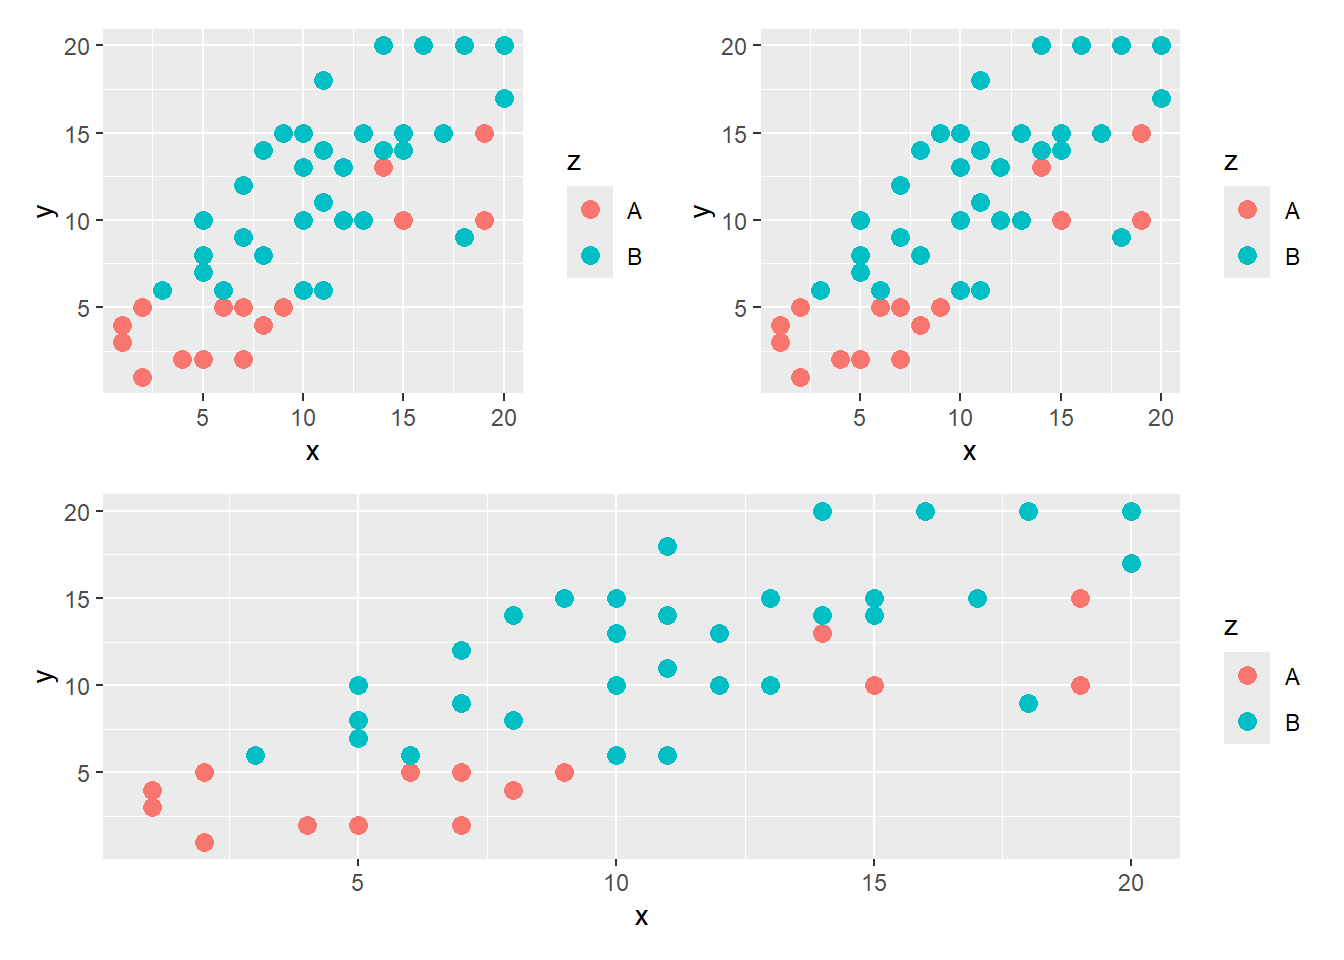
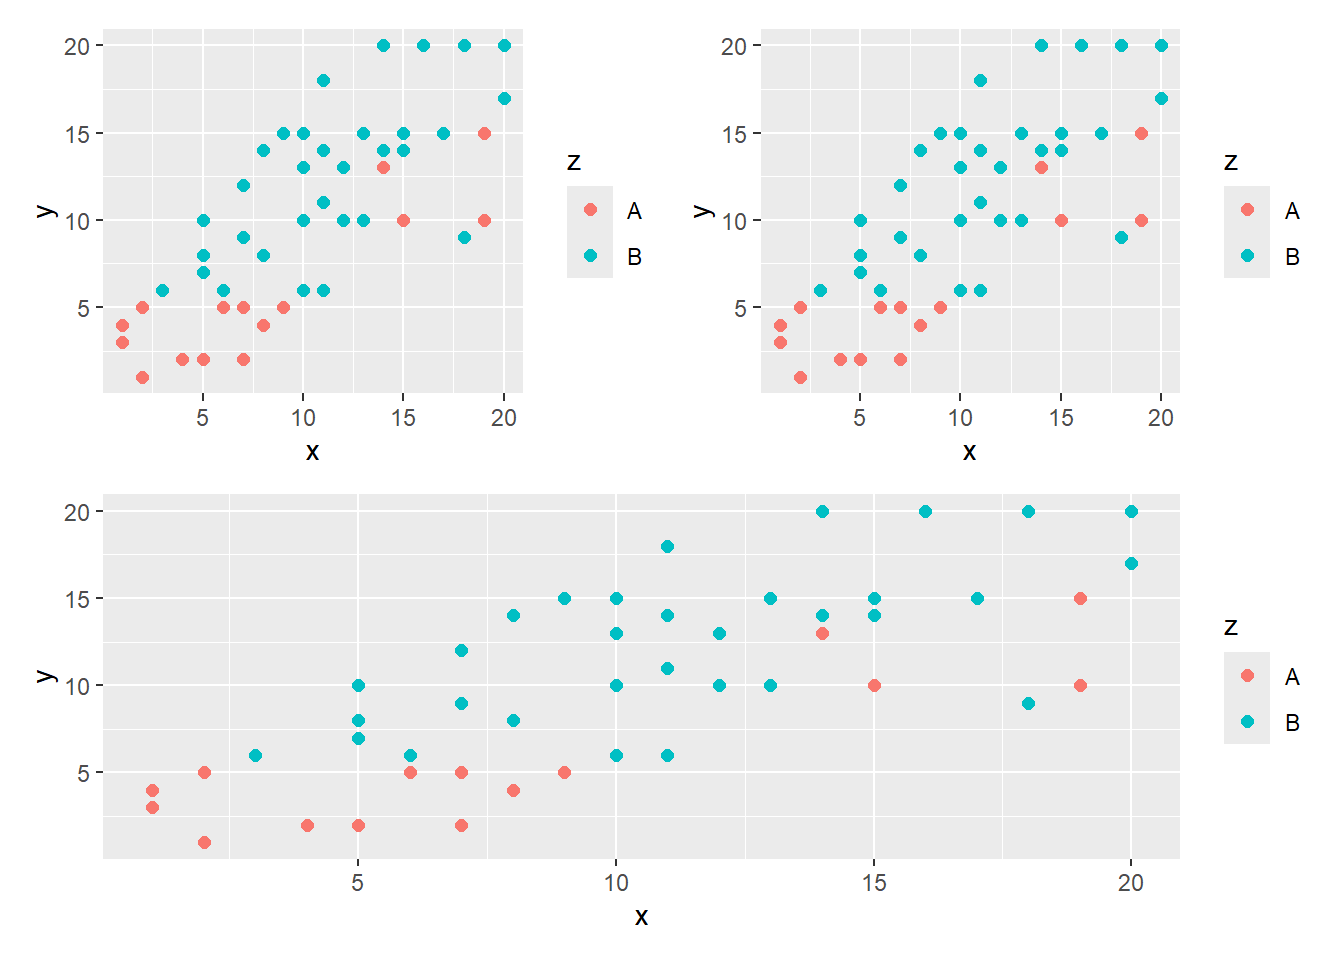
actualizacion 25/6

diff --git a/clases/12-clase/index.html b/clases/12-clase/index.html
@@ -573,13 +573,34 @@ pre > code.sourceCode > span > a:first-child::before { text-decoration: underlin
 <h2 class="anchored" data-anchor-id="composición-de-gráficos">Composición de gráficos</h2>
 <p>Dentro de los paquetes complementarios del sistema ggplot, <strong>patchwork</strong> surge como una herramienta muy útil para la composición de gráficos de manera intuitiva y eficiente. A diferencia de las funciones de facetado propias de ggplot2, patchwork se enfoca en la flexibilidad y personalización, permitiendo crear composiciones complejas con mayor control sobre la disposición y el estilo de los gráficos individuales.</p>
 <p>Se basa en el concepto de fragmentos que se pueden combinar, superponer y organizar libremente utilizando operadores intuitivos como +, | y ~.</p>
-<p>+: Combina gráficos horizontalmente. |: Combina gráficos verticalmente. ~: Apila gráficos uno encima del otro.</p>
+<table class="table">
+<thead>
+<tr class="header">
+<th>Operador</th>
+<th>Función</th>
+</tr>
+</thead>
+<tbody>
+<tr class="odd">
+<td>+</td>
+<td>Combina gráficos horizontalmente.</td>
+</tr>
+<tr class="even">
+<td>|</td>
+<td>Combina gráficos verticalmente.</td>
+</tr>
+<tr class="odd">
+<td>~</td>
+<td>Apila gráficos uno encima del otro.</td>
+</tr>
+</tbody>
+</table>
 <p>Además de la simple combinación, patchwork ofrece herramientas para personalizar el diseño de la composición final, teniendo en cuenta márgenes, espacios, alineación y proporciones.</p>
 <p>Imaginemos que tenemos varios gráficos que visualizar combinados (en nuestro ejemplo lo haremos con el único gráfico que construimos).</p>
 <div class="cell" data-layout-align="center">
 <div class="sourceCode cell-code" id="cb18"><pre class="sourceCode r code-with-copy"><code class="sourceCode r"><span id="cb18-1"><a href="#cb18-1" aria-hidden="true" tabindex="-1"></a>grafico <span class="ot">&lt;-</span> datos <span class="sc">|&gt;</span> </span>
 <span id="cb18-2"><a href="#cb18-2" aria-hidden="true" tabindex="-1"></a>  <span class="fu">ggplot</span>(<span class="at">mapping =</span> <span class="fu">aes</span>(<span class="at">x =</span> x, <span class="at">y =</span> y, <span class="at">color =</span> z)) <span class="sc">+</span> </span>
-<span id="cb18-3"><a href="#cb18-3" aria-hidden="true" tabindex="-1"></a>  <span class="fu">geom_point</span>(<span class="at">size =</span> <span class="dv">3</span>)</span>
+<span id="cb18-3"><a href="#cb18-3" aria-hidden="true" tabindex="-1"></a>  <span class="fu">geom_point</span>(<span class="at">size =</span> <span class="dv">2</span>)</span>
 <span id="cb18-4"><a href="#cb18-4" aria-hidden="true" tabindex="-1"></a></span>
 <span id="cb18-5"><a href="#cb18-5" aria-hidden="true" tabindex="-1"></a><span class="fu">library</span>(patchwork)</span>
 <span id="cb18-6"><a href="#cb18-6" aria-hidden="true" tabindex="-1"></a></span>
@@ -587,7 +608,7 @@ pre > code.sourceCode > span > a:first-child::before { text-decoration: underlin
 <div class="cell-output-display">
 <div class="quarto-figure quarto-figure-center">
 <figure class="figure">
-<p><img src="index_files/figure-html/unnamed-chunk-16-1.png" class="img-fluid quarto-figure quarto-figure-center figure-img" style="width:50.0%"></p>
+<p><img src="index_files/figure-html/unnamed-chunk-16-1.png" class="img-fluid quarto-figure quarto-figure-center figure-img" style="width:70.0%"></p>
 </figure>
 </div>
 </div>
